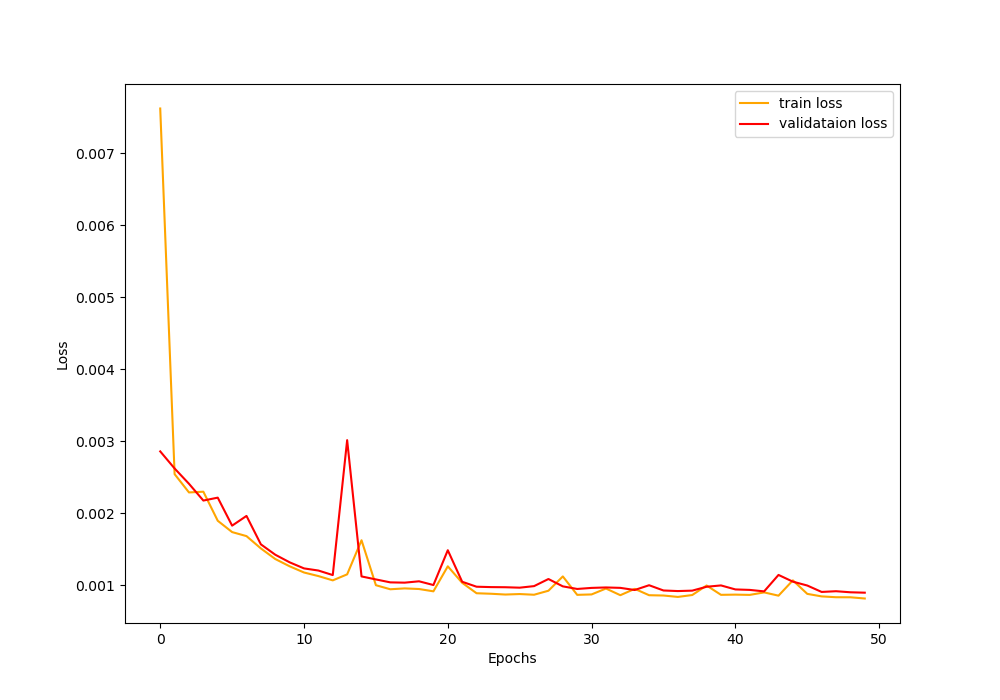
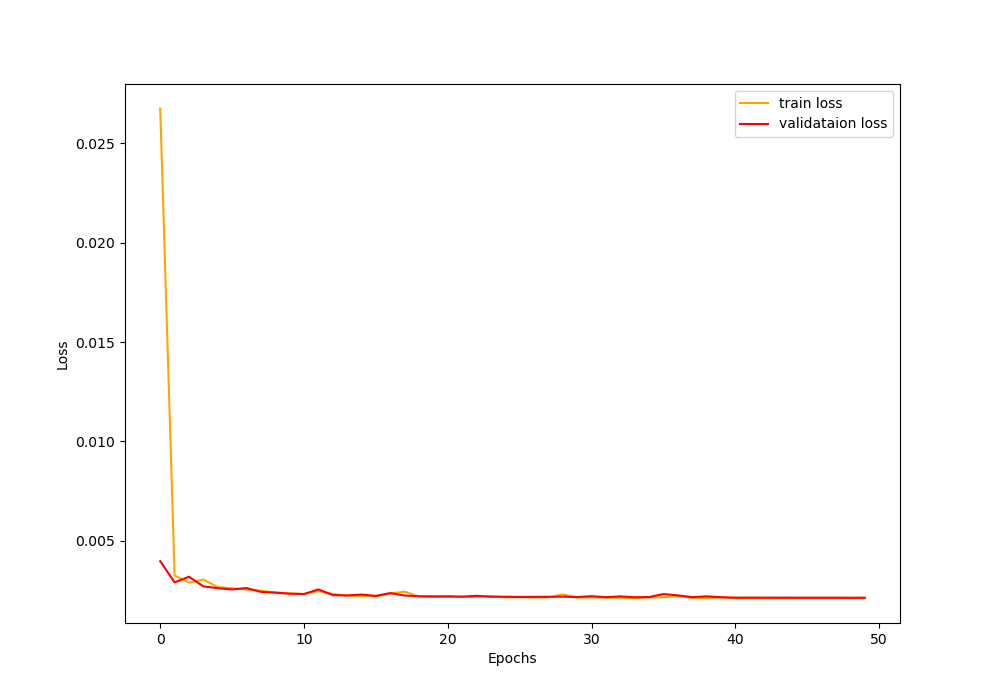
clean training

diff --git a/src/deblur_ae.py b/src/deblur_ae.py
@@ -97,7 +97,7 @@ val_data = DeblurDataset(x_val, y_val, transform)
 trainloader = DataLoader(train_data, batch_size=batch_size, shuffle=True)
 valloader = DataLoader(val_data, batch_size=batch_size, shuffle=False)
 
-model = models.SRCNN().to(device)
+model = models.CNN().to(device)
 print(model)
 
 # the loss function
